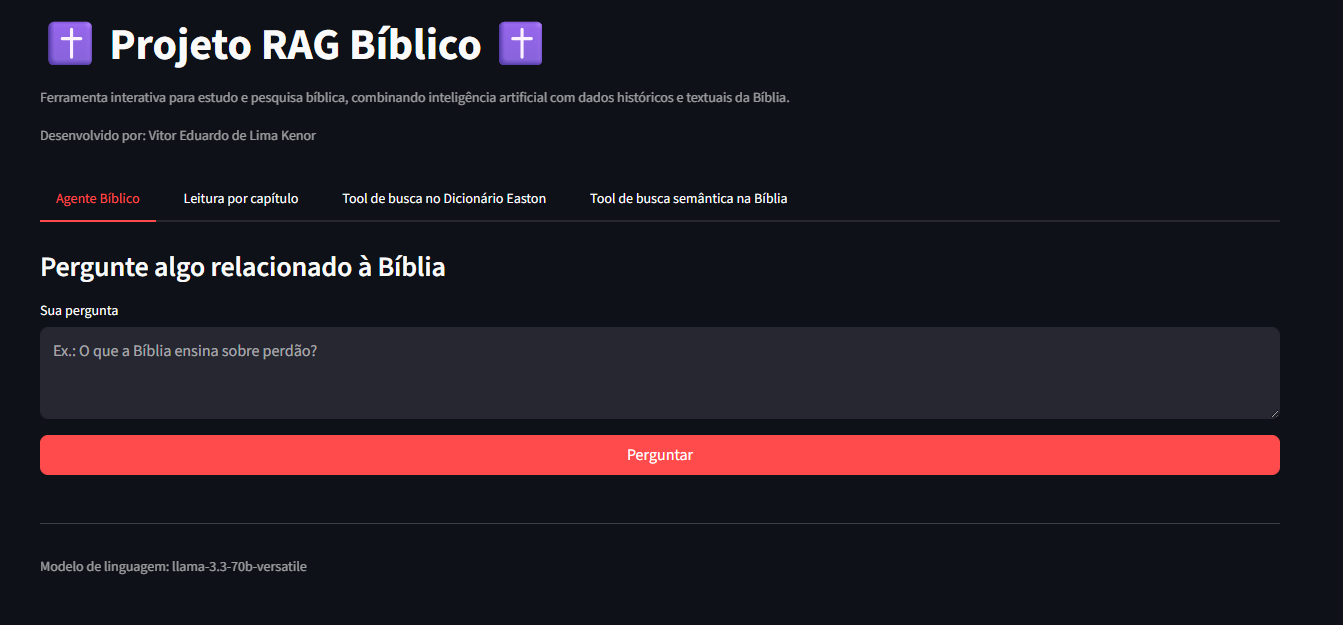
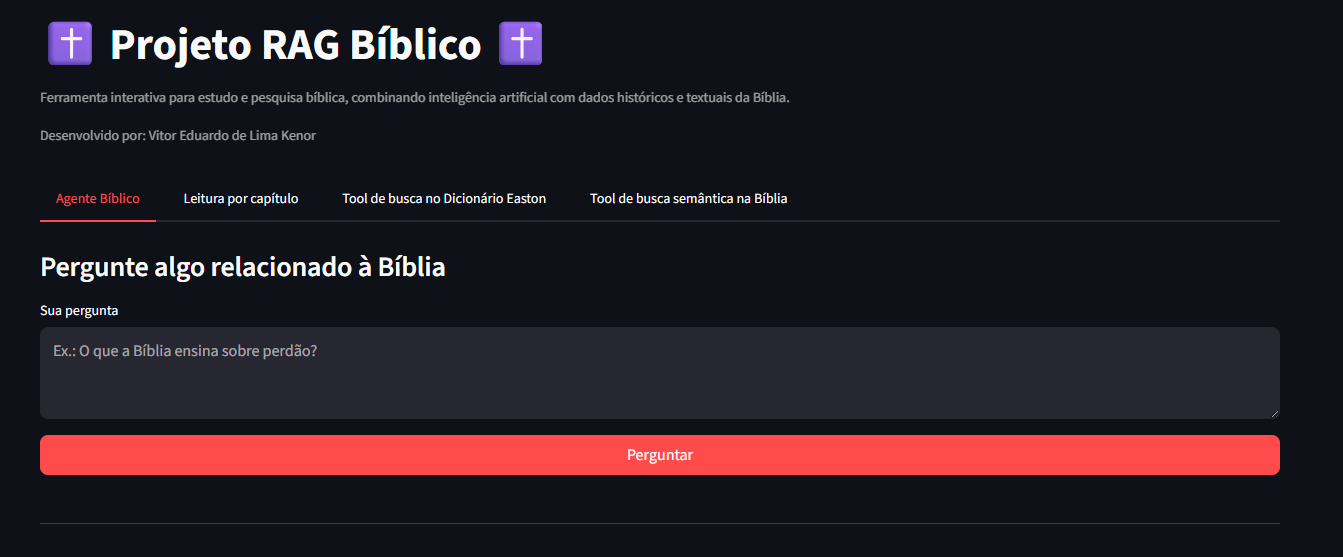
ajustes no prompt e mudança de modelo de LLM

diff --git a/src/biblia_agent.py b/src/biblia_agent.py
@@ -1,12 +1,9 @@
-from langchain_groq import ChatGroq
+from langchain_openai import OpenAI
 from src.system_prompts import SYSTEM_INSTRUCTION_TEMPLATE, ANALISE_QUESTION
 from src.chromadb_utils import ChromaDB
 from langchain.agents import initialize_agent
 from langchain.agents.agent_types import AgentType
 import logging
-import re
-from typing import Optional, Tuple
-from groq import RateLimitError
 from src.tools import (
     buscar_versiculos_semantica,
     buscar_dicionario_easton,
@@ -17,44 +14,8 @@ from src.tools import (
 logger = logging.getLogger(__name__)
 logger.addHandler(logging.NullHandler())
 
-class APIRateLimitError(Exception):
-    """
-    Erro customizado para limites de requisição da API (HTTP 429).
-    Inclui o texto retornado e, quando possível, os segundos sugeridos para aguardar.
-    """
-    def __init__(self, message: str, retry_seconds: Optional[int] = None, retry_text: Optional[str] = None):
-        super().__init__(message)
-        self.retry_seconds = retry_seconds
-        self.retry_text = retry_text or ""
-
-def _parse_retry_from_message(msg: str) -> Tuple[Optional[int], Optional[str]]:
-    """Tenta extrair o tempo de espera sugerido da mensagem da Groq.
-    Exemplos de trechos: "Please try again in 2m23.206s." ou "Please try again in 45.000s."
-    Retorna (retry_seconds, retry_text)
-    """
-    try:
-        # Formato com minutos e segundos: 2m23.206s
-        m = re.search(r"Please try again in\s+(?:(\d+)m)?(\d+(?:\.\d+)?)s", msg)
-        if m:
-            minutes = m.group(1)
-            seconds = float(m.group(2))
-            total_seconds = int(seconds)
-            if minutes is not None:
-                total_seconds += int(minutes) * 60
-            # Texto amigável aproximado
-            if total_seconds >= 60:
-                mins = total_seconds // 60
-                secs = total_seconds % 60
-                text = f"~{mins}m{secs}s"
-            else:
-                text = f"~{total_seconds}s"
-            return total_seconds, text
-    except Exception:
-        pass
-    return None, None
-
 class BibliaAgent:
-    def __init__(self, model_name: str = "llama-3.3-70b-versatile", temperature: float = 0.2):
+    def __init__(self, model_name: str = "gpt-4o-mini", temperature: float = 0.2):
         self.model_name = model_name
         self.temperature = temperature
         logger.info("Inicializando BibliaAgent | model=%s temperature=%.2f", self.model_name, self.temperature)
@@ -72,18 +33,12 @@ class BibliaAgent:
         Analisa a pergunta do usuário para determinar se é relevante para o contexto bíblico.
         """
         logger.debug("Analisando pergunta recebida: %s", question)
-        model = ChatGroq(model=self.model_name, temperature=self.temperature)
+        model = OpenAI(model=self.model_name, temperature=self.temperature)
         prompt = ANALISE_QUESTION.format(question=question)
         try:
             response = model.invoke(prompt)
-            logger.info("Resultado da análise de escopo: %s", str(response.content))
-            return response.content
-        except RateLimitError as e:
-            # Trata especificamente rate limit da Groq e reenvia como erro customizado
-            msg = str(getattr(e, "body", getattr(e, "message", str(e))))
-            retry_seconds, retry_text = _parse_retry_from_message(msg)
-            logger.warning("Rate limit atingido em analisar_pergunta. retry=%s", retry_text or retry_seconds)
-            raise APIRateLimitError("Limite de chamadas da API atingido.", retry_seconds=retry_seconds, retry_text=retry_text)
+            logger.info("Resultado da análise de escopo: %s", str(response))
+            return response
         except Exception as e:
             logger.exception("Erro ao analisar pergunta: %s", e)
             raise
@@ -95,9 +50,9 @@ class BibliaAgent:
         logger.info("Iniciando processamento da pergunta do usuário")
         try:
             analise = self.analisar_pergunta(question)
-        except APIRateLimitError:
-            # Propaga para que a camada de interface mostre a mensagem apropriada
-            raise
+        except Exception as e:
+            logger.error("Erro na análise da pergunta, abortando: %s", e)
+            return "Desculpe, ocorreu um erro ao processar sua pergunta."
         if "false" in analise.lower():
             logger.info("Pergunta fora de escopo bíblico. Encerrando com mensagem padrão.")
             return "Desculpe, não posso ajudar com essa pergunta. Por favor, faça uma pergunta relacionada a ensinamentos bíblicos."
@@ -110,7 +65,7 @@ class BibliaAgent:
         logger.debug("Configurando LLM e agente ReAct com ferramentas: %s", 
                      ", ".join([t.name if hasattr(t, 'name') else t.__name__ for t in tools]))
 
-        llm = ChatGroq(model=self.model_name, temperature=self.temperature)
+        llm = OpenAI(model=self.model_name, temperature=self.temperature, max_tokens=10000)
         
         # Usando ReAct Agent
         try:
@@ -128,11 +83,6 @@ class BibliaAgent:
             response = agent_executor.invoke(prompt)
             logger.info("Resposta gerada com sucesso pelo agente")
             return response['output']
-        except RateLimitError as e:
-            msg = str(getattr(e, "body", getattr(e, "message", str(e))))
-            retry_seconds, retry_text = _parse_retry_from_message(msg)
-            logger.warning("Rate limit atingido em ask. retry=%s", retry_text or retry_seconds)
-            raise APIRateLimitError("Limite de chamadas da API atingido.", retry_seconds=retry_seconds, retry_text=retry_text)
         except Exception as e:
             logger.exception("Erro ao gerar resposta com o agente: %s", e)
             raise

diff --git a/src/system_prompts.py b/src/system_prompts.py
@@ -69,9 +69,11 @@ Ex.: "Leia Gênesis 5". → buscar_na_biblia_json("Gênesis:5")
 - O agente pode utilizar no máximo 4 chamadas de ferramentas por pergunta.
 - Se após essas 4 tentativas não houver informações úteis, ele deve responder ao usuário apenas com a frase:
     - **"Em minha base de conhecimento não consegui encontrar algo fundamentado para responder."**
-
-### Estilo da Resposta
-- Sempre crie uma resposta bem estruturada e educativa, que não apenas traga a informação, mas também incentive uma reflexão espiritual ou prática para o usuário.
+- Crie sempre uma resposta bem estruturada com as três partes abaixo:
+  - Referências bíblicas — Liste claramente as passagens que você utilizou (livro, capítulo e versículo). 
+  - Interpretação — Em suas próprias palavras, explique qual pensamento/ensino foi extraído dos textos recuperados e como se relaciona com a pergunta. 
+  - Reflexão final — Parágrafo conclusivo com uma reflexão espiritual ou prática, fundamentada nos textos. 
+- Em todas as partes deixe explícito que esta é uma síntese produzida por um modelo de IA a partir das fontes disponíveis, e não um parecer teológico pessoal.
 
 Pergunta do usuário: {question}
 """)

diff --git a/app.py b/app.py
@@ -11,7 +11,7 @@ from src.tools import (
 )
 
 # Importa o agente do projeto
-from src.biblia_agent import BibliaAgent, APIRateLimitError
+from src.biblia_agent import BibliaAgent
 
 # Configuração de página (precisa vir antes de qualquer output)
 st.set_page_config(
@@ -132,12 +132,6 @@ with tabs[0]:
                 answer = agent.ask(question)
                 st.markdown("**Resposta:**")
                 st.write(answer)
-            except APIRateLimitError as e:
-                # Mensagem específica para rate limit com indicação de quando tentar novamente
-                if getattr(e, "retry_text", None):
-                    st.error(f"Limite de chamadas da API atingido. Tente novamente em {e.retry_text}.")
-                else:
-                    st.error("Limite de chamadas da API atingido. Tente novamente em breve.")
             except Exception as e:
                 st.error(f"Erro ao consultar o agente: {e}")
 
@@ -191,4 +185,4 @@ with tabs[3]:
 
 # ------------------------- Rodapé ------------------------- #
 st.divider()
-st.caption("Modelo de linguagem: llama-3.3-70b-versatile")
+st.caption("Modelo de linguagem: gpt-4o-mini")

diff --git a/README.md b/README.md
@@ -55,7 +55,7 @@ RAG_Bíblico/
    - `biblia_ave_maria` (versículos)
 5. Durante a pergunta, o agente combina:
    - Recuperação lexical (JSONs) e vetorial (ChromaDB) para coletar passagens e tópicos relevantes.
-   - Raciocínio do LLM (`llama-3.3-70b-versatile` via Groq) para sintetizar uma resposta contextualizada e coerente.
+   - Raciocínio do LLM (`gpt-4o-mini` via API da OpenAI) para sintetizar uma resposta contextualizada e coerente.
 6. A resposta é retornada ao Streamlit, podendo incluir trechos e referências dos textos consultados.
 
 > Em caso de primeira execução ou atualização dos dados, o agente verifica/cria as coleções no ChromaDB (ver utilitários em `src/chromadb_utils.py`).
@@ -64,7 +64,7 @@ RAG_Bíblico/
 
 - Python 3.12.0
 - Pip (ou uv/pipx, opcional)
-- Conta e chave de API da Groq (para uso do modelo LLM)
+- Conta e chave de API da OpenAI (para uso do modelo LLM)
 
 ## Instalação
 
@@ -79,8 +79,8 @@ RAG_Bíblico/
 Copie `.env.example` para `.env` e defina as variáveis necessárias:
 
 ```env
-# Chave da API Groq para o modelo de linguagem
-GROQ_API_KEY=coloque_sua_chave_aqui
+# Chave da API OpenAI para o modelo de linguagem
+OPENAI_API_KEY=coloque_sua_chave_aqui
 ```
 
 ## Executando a aplicação
